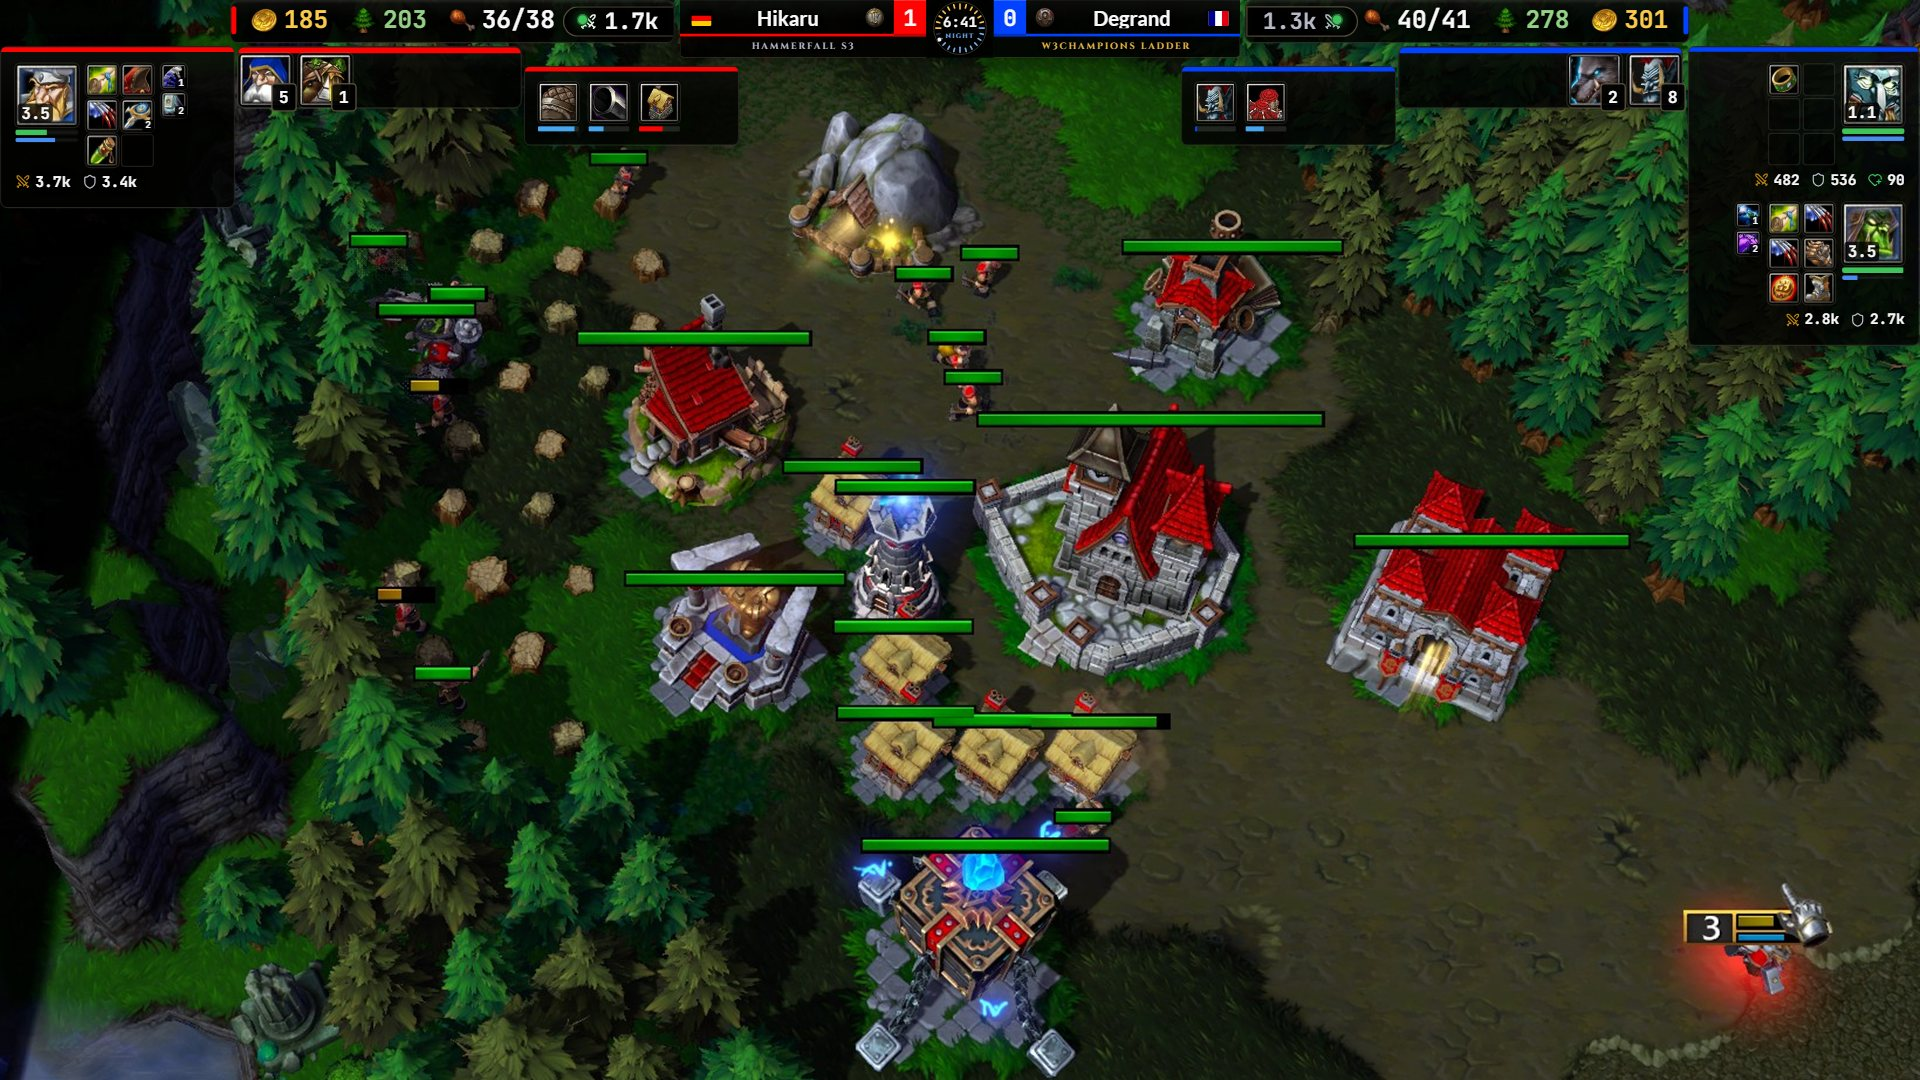
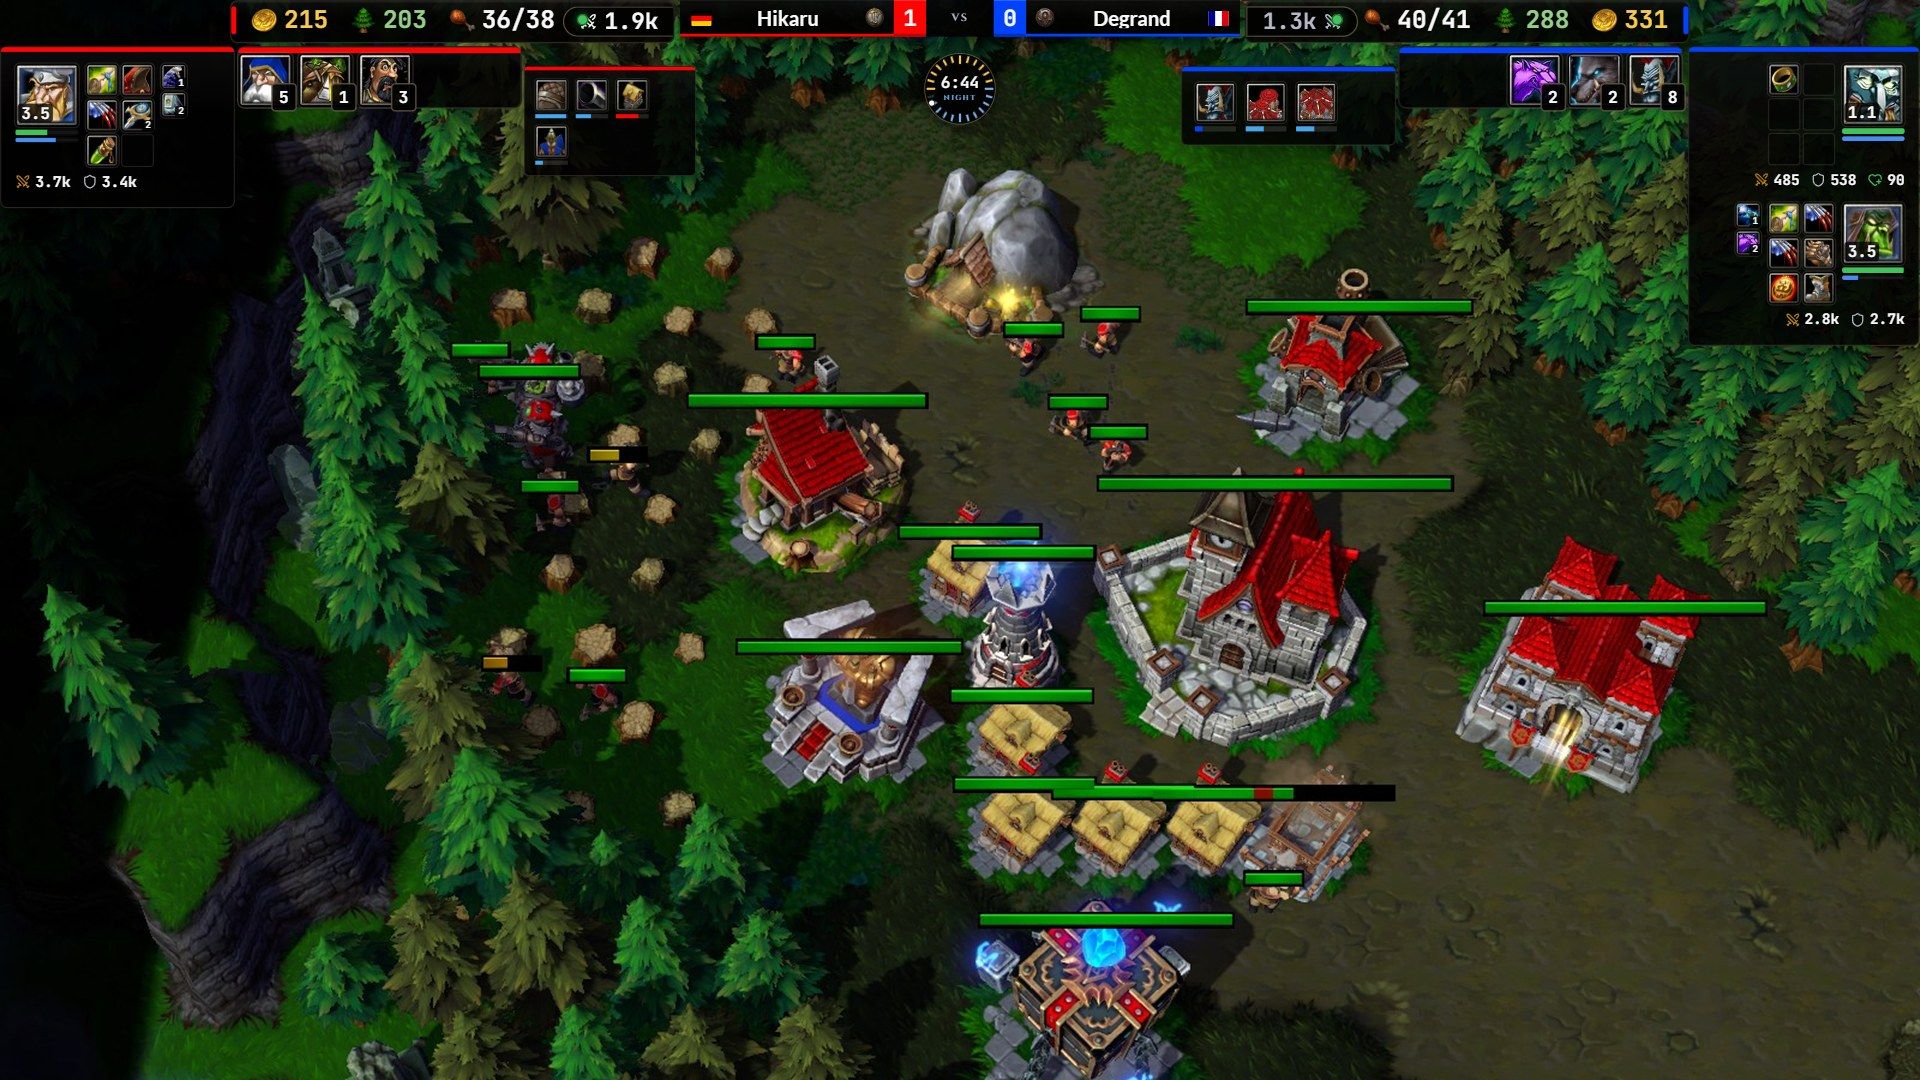
docs: screenshots and notes for 0.2.16
The HUD presets by use (Broadcast, Top bar, Showmatch, Coaching, Analysis,
Clean), the new HUD tab, the match recap with the heroes' skill order,
and the fight recap.

diff --git a/README.md b/README.md
@@ -44,8 +44,8 @@ you can support its development on [Ko-fi](https://ko-fi.com/degrandgames).
 - **Profile:** strengths and things to work on, judged on enough games to be
   more than luck, plus Warcraft-themed achievements.
 - **Observer HUD** (Windows): live panels for observed games and replays, on
-  your screen or as OBS browser sources: presets from a pro top bar to a clean
-  strip, W3Champions player cards, kills and items logs, an end-of-match recap
+  your screen or as OBS browser sources: presets for tournaments, showmatches,
+  coaching and analysis, W3Champions player cards, kills and items logs, an end-of-match recap
   and a fight recap for every fight. It only shows observer data: never
   anything the game hides from a player in their own game.
 
@@ -86,27 +86,40 @@ you play, each dated when it happened.
 
 ## Observer HUD
 
-**In the app**: pick a preset, arrange the panels, set the series score and
-players, and show the HUD on your screen or add it to OBS in one click.
+**In the app**: pick a preset by what it is for, arrange the panels (and
+which one is on top), set the series score and players, and choose where the
+HUD shows: in your stream (OBS), just on your screen, or both.
 
 ![Observer HUD controls](screenshots/hud-control.jpg)
 
-**Broadcast**: score bar, hero console over the game's bottom panel, and edge
+**Broadcast** (tournaments and casts): the score bar with the clock, the map
+and your subtitle, the hero console over the game's bottom panel, and edge
 strips with what each player is training, researching and has lost.
 
 ![Observer HUD, Broadcast preset](screenshots/hud-broadcast.jpg)
 
-**Clean**: just the score bar and a slim resources strip, for an uncluttered
-stream.
+**Clean** (simple): just the score bar and a slim resources strip, for an
+uncluttered stream with room for a facecam.
 
 ![Observer HUD, Clean preset](screenshots/hud-clean.jpg)
 
-**Analyst**: Broadcast with fuller side columns, for replay reviews and
-coaching.
+**Coaching** (lessons and replay reviews): what each player trains, researches
+and builds down their edge, and their tech race under the score bar.
 
-![Observer HUD, Analyst preset](screenshots/hud-analyst.jpg)
+![Observer HUD, Coaching preset](screenshots/hud-coaching.jpg)
 
-**Top bar**: everything along the top, as pro casts lay it out: resources on
+**Analysis** (stats and deep dives): head to head, both armies' value, who is
+ahead in gold, lumber and food, and the units alive and lost on each side.
+
+![Observer HUD, Analysis preset](screenshots/hud-analysis.jpg)
+
+**Showmatch** (showmatches and fun streams): everything side by side: head to
+head, the armies' value as a tug of war, the heroes face to face, and the
+kills and items logs.
+
+![Observer HUD, Showmatch preset](screenshots/hud-showmatch.jpg)
+
+**Top bar** (casts, the bottom kept clear): everything along the top, as pro casts lay it out: resources on
 the top edge with the score bar between them, hero cards with inventory,
 spells and damage in each corner, the army and what is training beside them.
 The game's own bottom panel stays clear.
@@ -130,13 +143,14 @@ On your screen, hover any icon for its details (a hero's hit points, mana,
 experience and damage, a spell's cooldown, an item's charges), and the cursor
 stays visible over the panels.
 
-**End-of-match recap**: hero performance, value generated and spent, losses,
-items used and the value advantage over time.
+**End-of-match recap**: hero performance (with each hero's skills, in the
+order they were learned), value generated and spent, losses, items used and
+the value advantage over time.
 
 ![End-of-match recap](screenshots/match-recap.jpg)
 
 **Fight recap**: after each fight, the Notifications panel on your screen
-lights up; one click shows the recap, on screen and in OBS: what each side
+lights up (or open it from the app's Recaps tab); one click shows the recap, on screen and in OBS: what each side
 lost and used, each hero's damage dealt, taken and healed, and how the fight's
 value swung.
 
